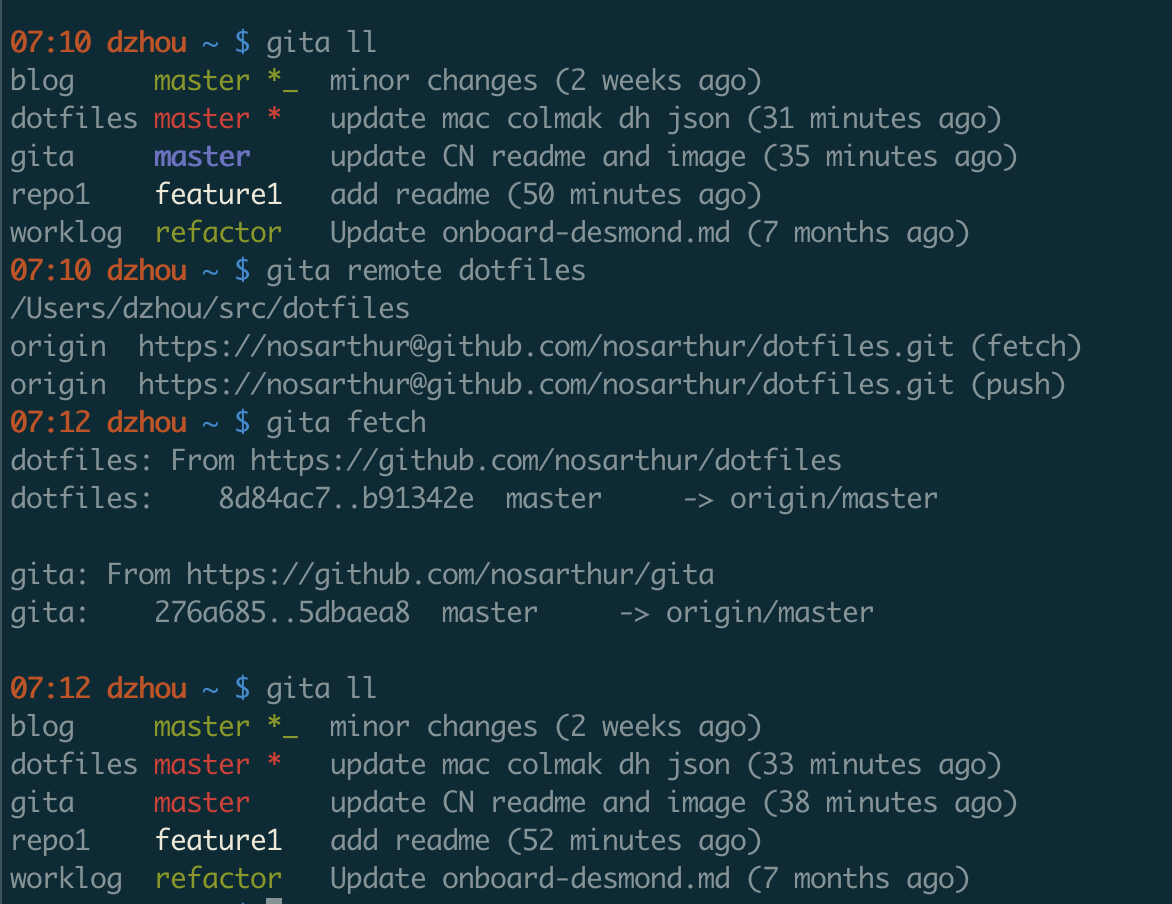
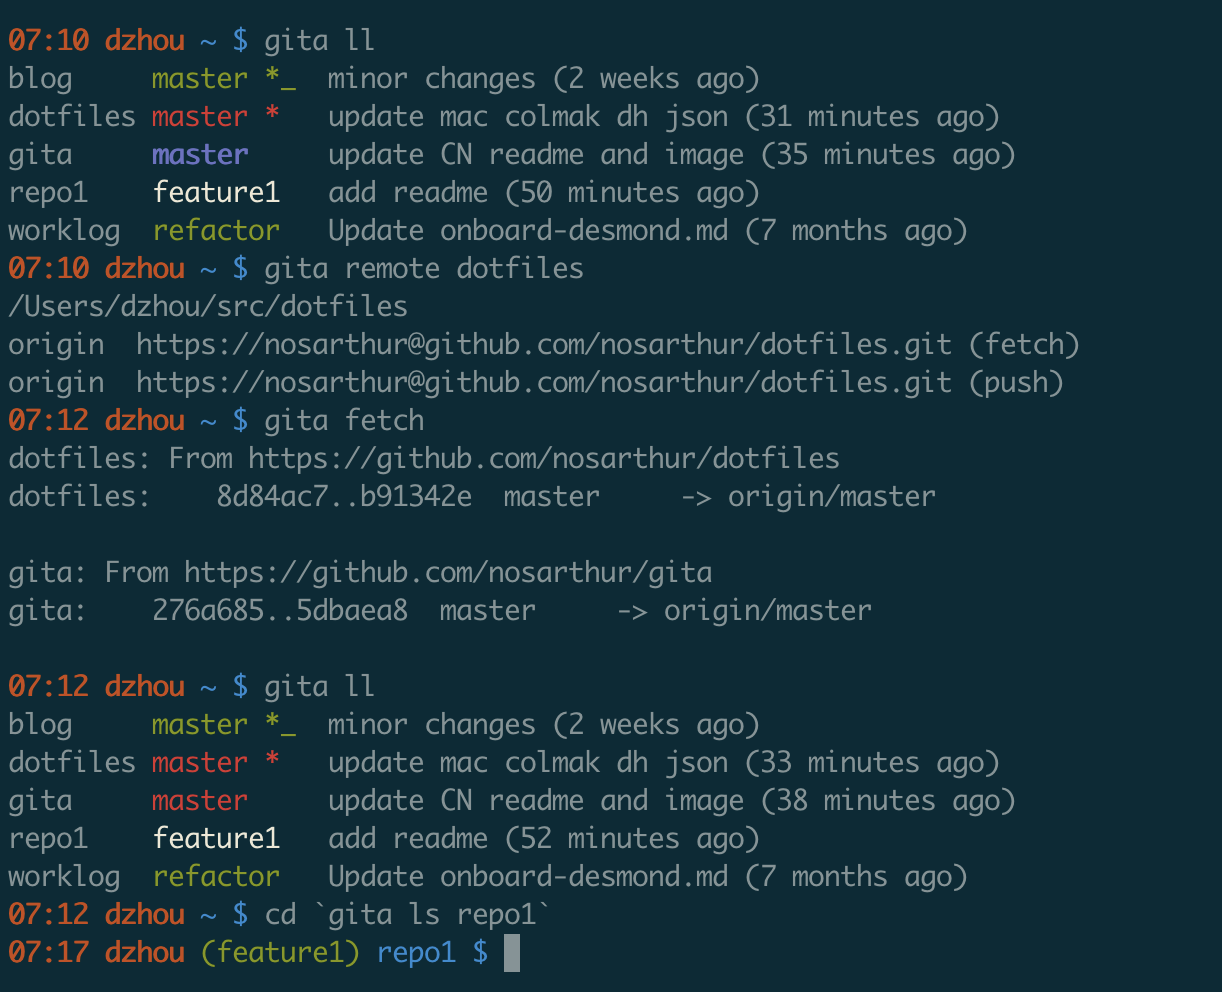
update screenshot

Changed region(s): [[0.0, 0.0, 0.9215, 1.0]]

diff --git a/README.md b/README.md
@@ -29,8 +29,10 @@ I also hate to change directories to execute git commands.
 
 ![gita screenshot](https://github.com/nosarthur/gita/raw/master/doc/screenshot.png)
 
-In the screenshot, the `gita remote dotfiles` command translates to `git remote -v`
+In the screenshot, the `gita ll` command displays the status of all repos.
+The `gita remote dotfiles` command translates to `git remote -v`
 for the `dotfiles` repo, even though we are not in the repo.
+The `gita fetch` command fetches from all repos and two of them have updates.
 To see the pre-defined sub-commands, run `gita -h` or take a look at
 [cmds.yml](https://github.com/nosarthur/gita/blob/master/gita/cmds.yml).
 To add your own sub-commands, see the [customization section](#custom).
